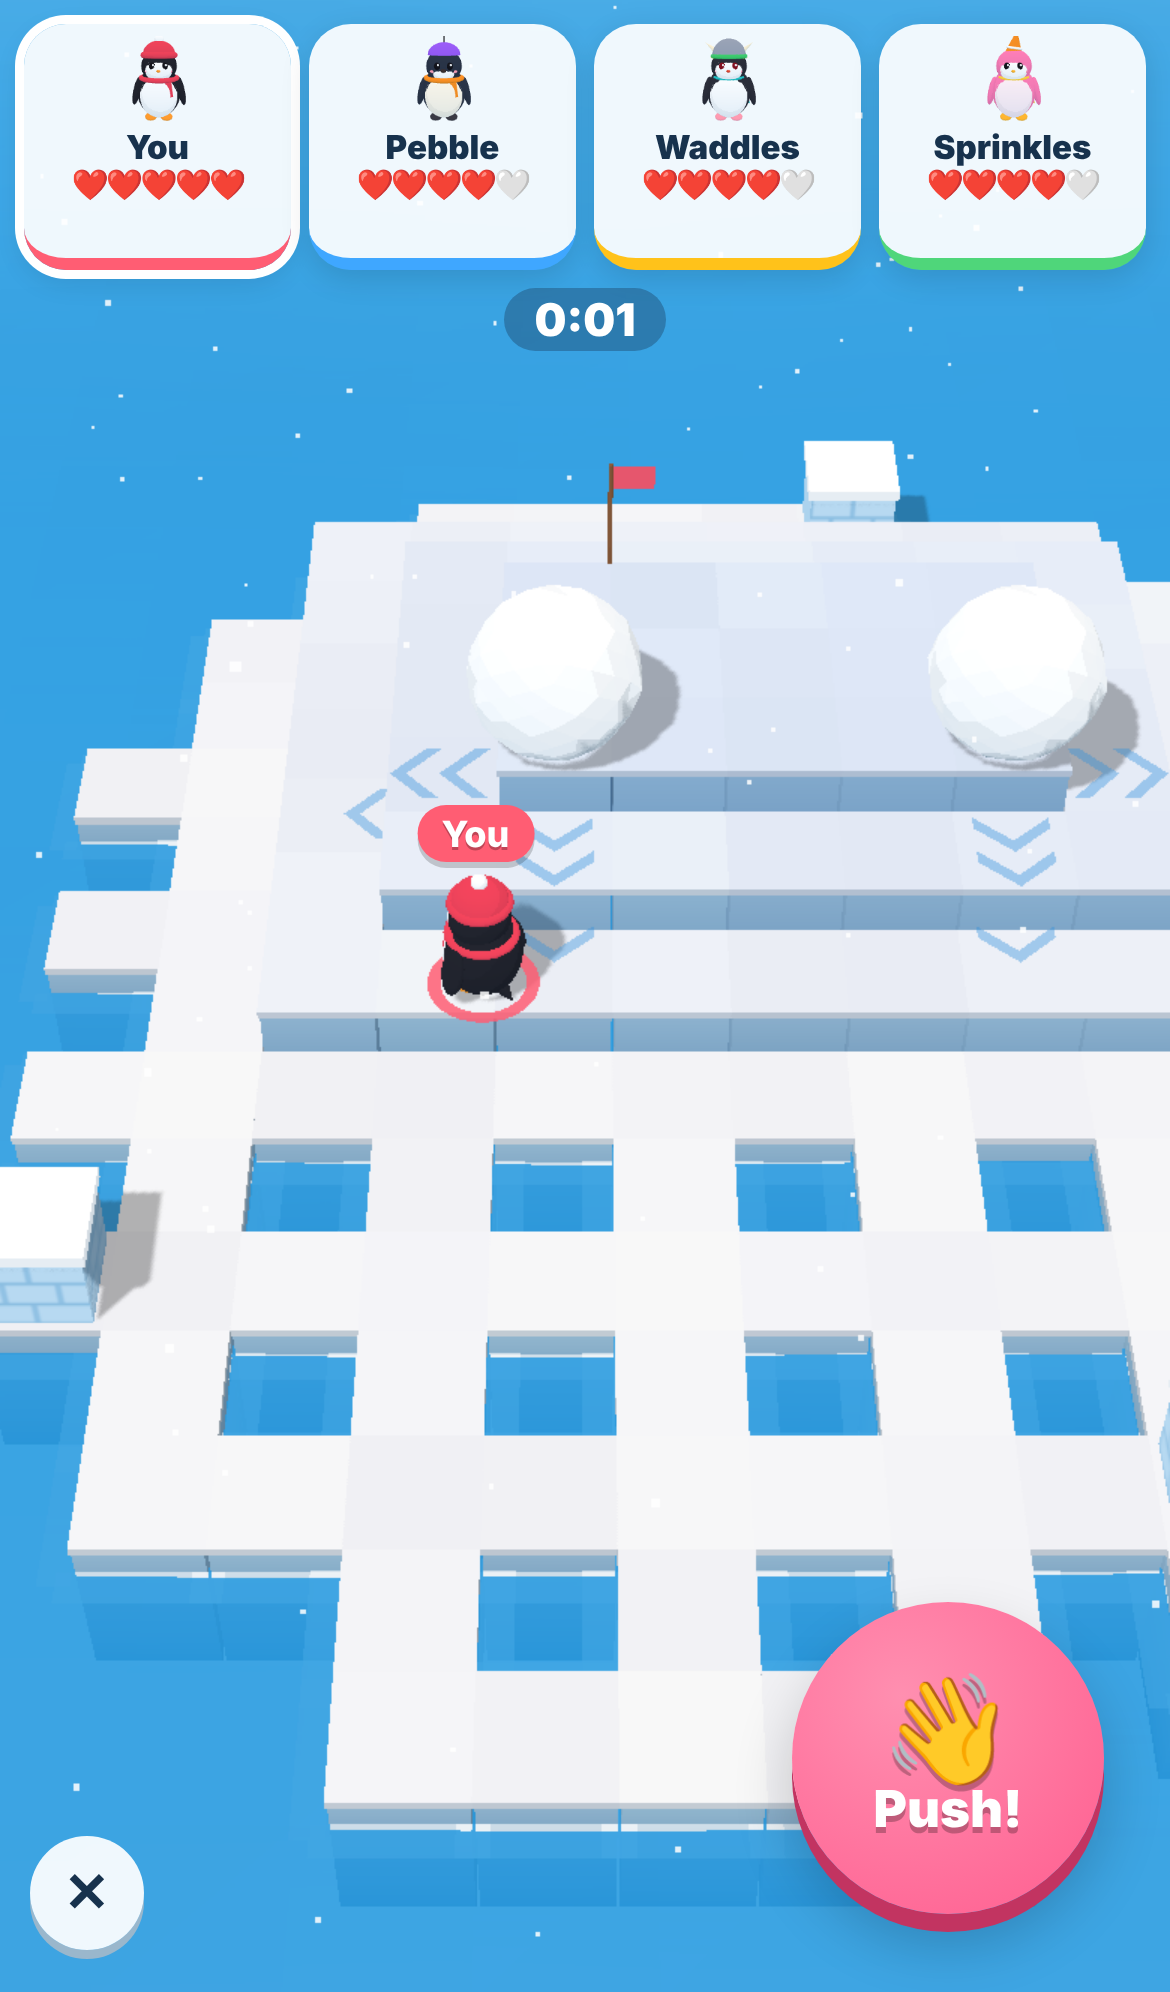
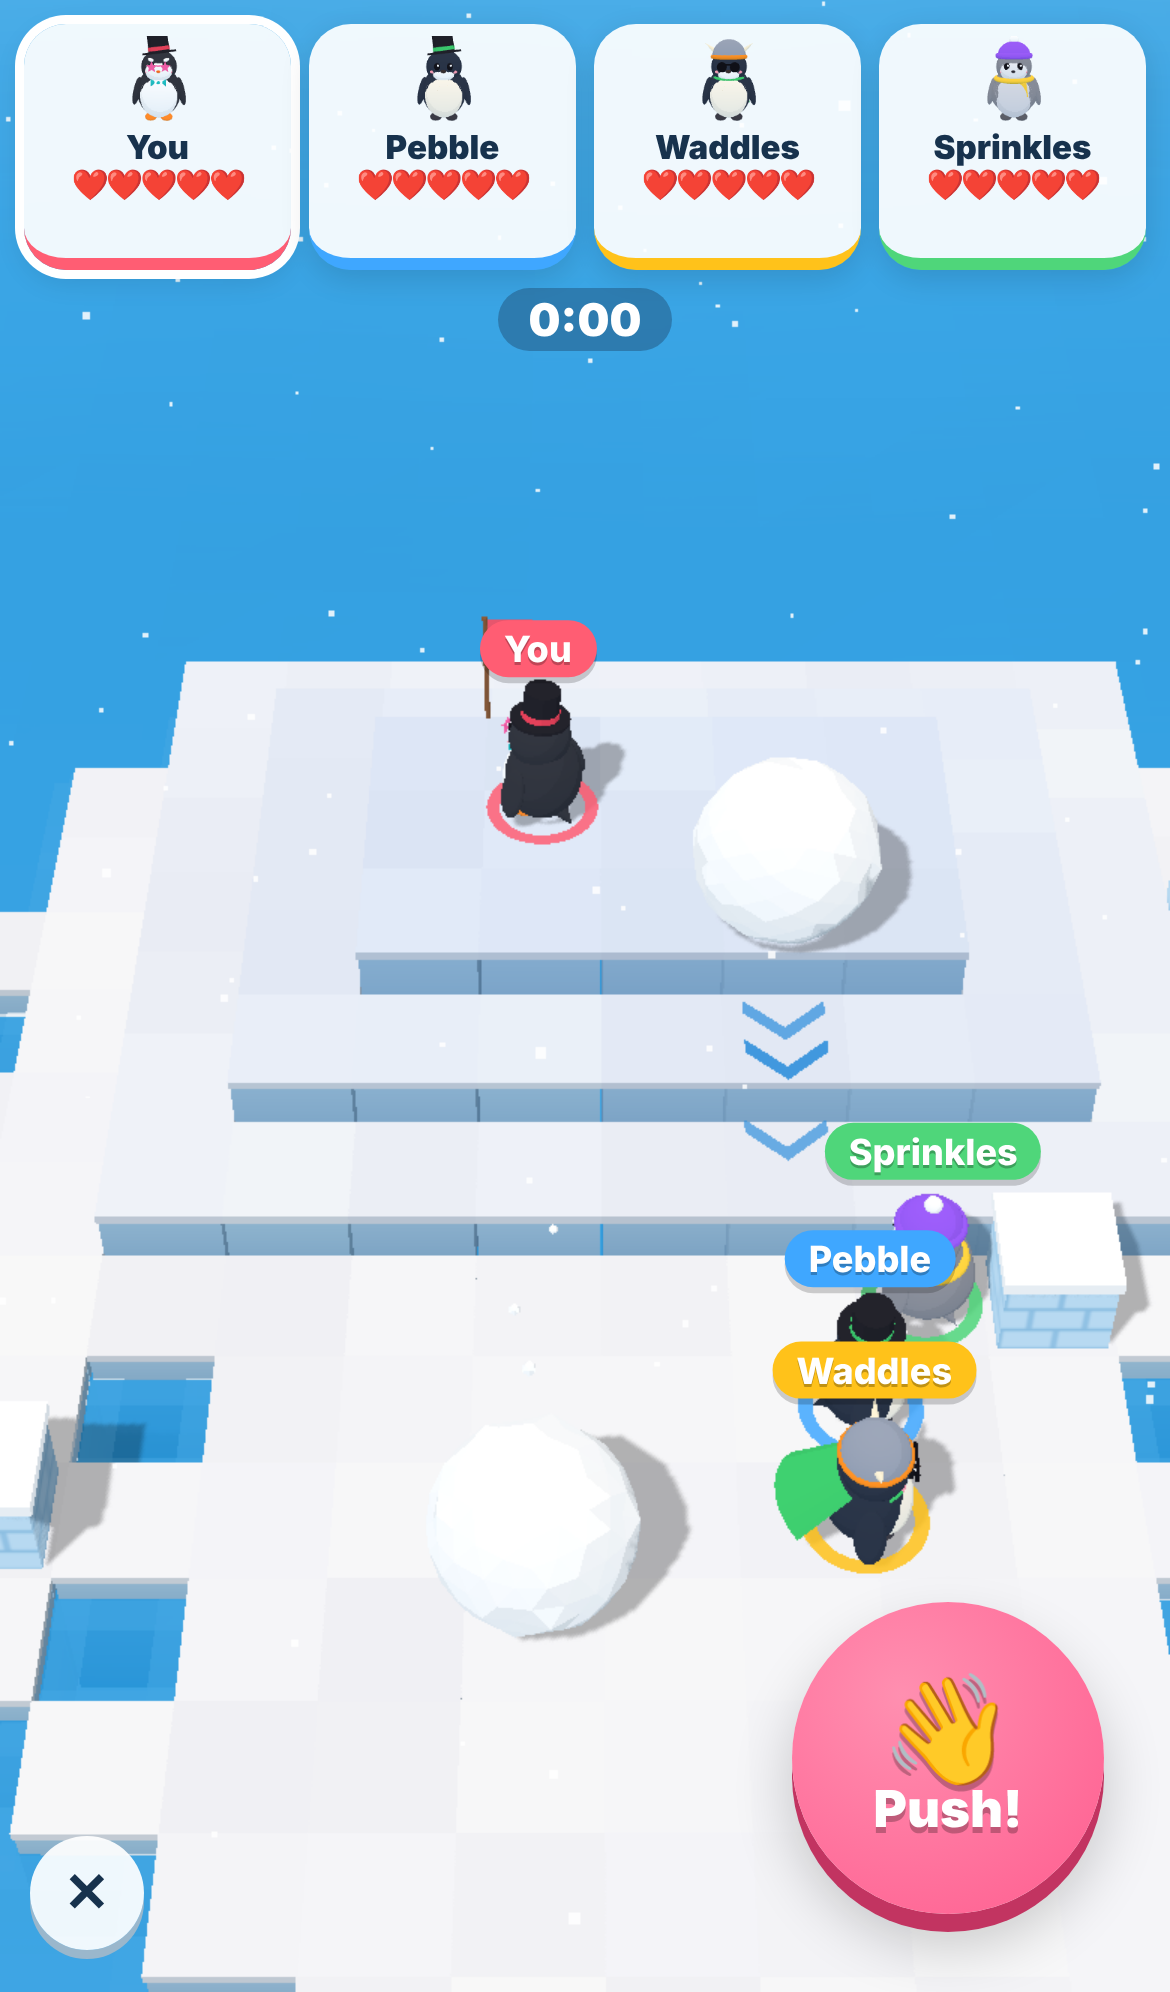
Random first-visit name and outfit; Snowball Hill gets a wide lane
- A brand-new player gets a random penguin name (none clash with the
  computer penguins) and a random outfit. Both are saved to local
  storage straight away and kept from then on.
- Snowball Hill: the snowballs move to the middle of the pyramid's front
  edge, where the only downhill direction is south. Below them a wide
  lane (the pyramid's width) runs to the shore with no water squares or
  ice blocks. A snowball now rolls the length of the island (about 10.7
  units, 1.3 s) into the sea instead of dropping into the first hole.

Tests: first-visit outfit is saved and reused; starter names avoid bot
names; every hill snowball rolls south down the lane and splashes in
the sea. The e2e no longer assumes a fixed starting outfit.

Claude-Session: https://claude.ai/code/session_011gFVsdiQUrJZG5iVJj6BbJ

diff --git a/public/src/arena.js b/public/src/arena.js
@@ -207,34 +207,33 @@ export function makeArena(id, seed) {
 	};
 
 	if (id === 'hill') {
-		// A stepped ice pyramid to the north. Two snowballs sit on its front
-		// corners; each can roll down the steps along its row or column.
+		// A stepped ice pyramid to the north. Two snowballs sit on the middle
+		// of its front edge, where the only way down is south — into a wide
+		// lane of clear ice that runs all the way to the shore.
 		arena.hill = true;
 		const core = { i0: 5, i1: 9, j0: 3, j1: 5 };
+		/** The snowball lane: the pyramid's width, from its foot to the sea. */
+		const inLane = (/** @type {number} */ i, /** @type {number} */ j) =>
+			i >= core.i0 && i <= core.i1 && j > core.j1;
 		for (let j = 0; j < n; j++) {
 			for (let i = 0; i < n; i++) {
 				if (!land(i, j)) continue;
 				const d = Math.max(core.i0 - i, i - core.i1, core.j0 - j, j - core.j1, 0);
 				set(i, j, Math.max(0, 3 - d));
-				// Water pillars across the lowlands.
-				if (d >= 4 && odd(i, j) && !nearStart(i, j)) set(i, j, -1);
+				// Water pillars across the lowlands, but never in the lane.
+				if (d >= 4 && odd(i, j) && !nearStart(i, j) && !inLane(i, j)) set(i, j, -1);
 			}
 		}
 		for (const [i, j] of [
-			[core.i0, core.j1],
-			[core.i1, core.j1],
+			[core.i0 + 1, core.j1],
+			[core.i1 - 1, core.j1],
 		]) {
 			const k = idx(arena, i ?? 0, j ?? 0);
 			const c = tileCenter(arena, k);
 			arena.balls.push({ k, x: c.x, y: c.y, r: BALL_R });
 		}
-		// A few ice blocks, kept out of the snowball lanes.
-		scatterBlocks(
-			arena,
-			rng,
-			0.08,
-			(i, j) => i === core.i0 || i === core.i1 || j === core.j1 || nearStart(i, j),
-		);
+		// A few ice blocks, kept out of the lane.
+		scatterBlocks(arena, rng, 0.08, (i, j) => inLane(i, j) || j === core.j1 || nearStart(i, j));
 	} else if (id === 'floes') {
 		// Four little islands split by a cross of water, joined by one-tile
 		// bridges, with rafts drifting round the outside.

diff --git a/public/src/main.js b/public/src/main.js
@@ -9,7 +9,7 @@ import { buildId, GAME_ID, serverUrl } from './config.js';
 import { BOT_NAMES, COUNTDOWN_MS, STEP } from './constants.js';
 import { celebrationOver, startMatch, tick } from './game.js';
 import { Controls } from './input.js';
-import { loadLook, randomLook, saveLook } from './looks.js';
+import { loadLook, randomLook, randomName, saveLook } from './looks.js';
 import { botLook, makeRoster, MAP_CHOICES, Session } from './multi.js';
 import { createRoom, NetClient } from './net/client.js';
 import { isValidCode, normalizeCode } from './net/codes.js';
@@ -404,7 +404,7 @@ export function start() {
 	});
 	$('name').addEventListener('input', () => {
 		const v = /** @type {HTMLInputElement} */ ($('name')).value.trim().slice(0, 12);
-		state.name = v || 'Penguin';
+		state.name = v || state.name;
 		saveName(state.name);
 	});
 	click('btn-solo-start', startSolo);
@@ -661,9 +661,14 @@ export function start() {
 /** @returns {string} */
 function loadName() {
 	try {
-		return localStorage.getItem(NAME_KEY) || 'Penguin';
+		const saved = localStorage.getItem(NAME_KEY);
+		if (saved) return saved;
+		// First visit: a random penguin name, kept from now on.
+		const name = randomName();
+		localStorage.setItem(NAME_KEY, name);
+		return name;
 	} catch {
-		return 'Penguin';
+		return randomName();
 	}
 }
 

diff --git a/tests/looks.test.js b/tests/looks.test.js
@@ -1,12 +1,15 @@
-import { describe, expect, it } from 'vitest';
+import { beforeEach, describe, expect, it } from 'vitest';
 
 import {
 	defaultLook,
+	loadLook,
 	LOOK_COUNTS,
 	lookFromBytes,
 	lookToBytes,
 	randomLook,
+	randomName,
 	sanitizeLook,
+	STARTER_NAMES,
 } from '../public/src/looks.js';
 
 describe('looks', () => {
@@ -24,5 +27,22 @@ describe('looks', () => {
 		for (const [k, n] of Object.entries(LOOK_COUNTS)) {
 			expect(l[/** @type {keyof typeof l} */ (k)]).toBeLessThan(n);
 		}
+	});
+});
+
+describe('a brand-new player', () => {
+	beforeEach(() => localStorage.clear());
+
+	it('gets a random outfit on the first visit, kept from then on', () => {
+		const first = loadLook();
+		expect(localStorage.getItem('penguin-push:look')).toBe(JSON.stringify(first));
+		expect(loadLook()).toEqual(first);
+	});
+
+	it('gets a random name that is not a computer penguin name', () => {
+		const name = randomName();
+		expect(STARTER_NAMES).toContain(name);
+		for (const bot of ['Pebble', 'Waddles', 'Sprinkles'])
+			expect(STARTER_NAMES).not.toContain(bot);
 	});
 });

diff --git a/tests/e2e/solo.spec.js b/tests/e2e/solo.spec.js
@@ -10,12 +10,21 @@ test('title → changing station → solo match → leaderboard', async ({ page 
 	await page.click('#btn-play');
 	await expect(page.locator('#station')).toBeVisible();
 
+	// A brand-new player starts with a random name and outfit, already saved.
+	const start = await page.evaluate(() => ({
+		look: window.__game.state.look,
+		name: window.__game.state.name,
+		saved: localStorage.getItem('penguin-push:look'),
+	}));
+	expect(start.saved).toBe(JSON.stringify(start.look));
+	expect(start.name).not.toBe('Penguin');
+
 	// Dress up: the look is saved and shows in the match.
 	await page.click('[aria-label="Next Hat"]');
 	await page.click('[aria-label="Next Penguin"]');
 	const look = await page.evaluate(() => window.__game.state.look);
-	expect(look.hat).toBe(2);
-	expect(look.species).toBe(1);
+	expect(look.hat).toBe((start.look.hat + 1) % 9);
+	expect(look.species).toBe((start.look.species + 1) % 7);
 
 	await page.click('text=Play vs Computer');
 	await page.click('[data-map="hill"]');

diff --git a/public/src/looks.js b/public/src/looks.js
@@ -199,7 +199,39 @@ export function loadLook() {
 	} catch {
 		// private mode or bad JSON
 	}
-	return defaultLook();
+	// First visit: a surprise outfit, kept from now on.
+	const look = randomLook(Math.random);
+	saveLook(look);
+	return look;
+}
+
+/** Names for a brand-new player (all different from the computer penguins'). */
+export const STARTER_NAMES = [
+	'Pip',
+	'Mochi',
+	'Noodle',
+	'Peanut',
+	'Pickle',
+	'Dumpling',
+	'Frosty',
+	'Popsicle',
+	'Biscuit',
+	'Waffles',
+	'Bubbles',
+	'Nugget',
+	'Sprout',
+	'Jellybean',
+	'Cocoa',
+	'Maple',
+	'Blizzard',
+	'Snowdrop',
+	'Tofu',
+	'Marshmallow',
+];
+
+/** @returns {string} */
+export function randomName() {
+	return STARTER_NAMES[Math.floor(Math.random() * STARTER_NAMES.length)] ?? 'Pip';
 }
 
 /** @param {Look} look */

diff --git a/tests/arena.test.js b/tests/arena.test.js
@@ -149,7 +149,10 @@ describe('giant snowballs on the stepped hill', () => {
 						(roll.pts[n - 2] ?? 0) - home.x,
 						(roll.pts[n - 1] ?? 0) - home.y,
 					);
-					expect(dist).toBeGreaterThan(CELL * 2.5);
+					// Down the wide, clear lane all the way to the sea.
+					expect(d.y).toBe(1);
+					expect(roll.end).toBe('splash');
+					expect(dist).toBeGreaterThan(CELL * 6);
 					expect(rollPath(a, i, angle + 0.2, 1000)).toBe(roll);
 				}
 			});

diff --git a/README.md b/README.md
@@ -31,7 +31,7 @@ online or against computer penguins, and the wins add up across a session.
 
 Every map is a **grid of ice blocks** stuck together, like a Bomberman board turned inside out: the board is ice and the "pillars" are **water squares** you can be shoved into. **Ice blocks** sit on some tiles. You can't walk through them, they stop low snowballs (a long throw arcs over), they block waves, and they stop giant snowballs.
 
-- ⛄ **Snowball Hill**: a stepped pyramid of stacked ice. A giant snowball sits on each front corner of the top, above a checkerboard of water squares. Snowballs **only roll downhill**: you have to push from the uphill side, and arrows on the steps show the ways each one can go. A snowball rolls straight along its row or column, speeds up at every step down, bowls over anyone in the way, and drops into the first water it meets. Then a new one appears at the top.
+- ⛄ **Snowball Hill**: a stepped pyramid of stacked ice. Two giant snowballs sit on the middle of its front edge, where the only way down is south: a wide lane of clear ice (no water squares, no blocks) running from the pyramid's foot to the shore. Snowballs **only roll downhill**, so get behind one and push. Arrows on the steps show the way. A snowball speeds up at every step, bowls over anyone in the lane, and rolls the whole length of the island into the sea. Then a new one appears at the top. Water squares dot the rest of the lowlands.
 - 🧊 **Floe Frenzy**: four little islands split by a cross of water, joined by one-tile bridges, with 2×2 rafts drifting around the outside. The rafts crack and sink now and then.
 - 🌊 **Igloo Cove**: red arrows warn of a big wave. It shoves everyone across the ice unless you hide behind the igloo or an ice block. There are holes, and slippery polished tiles.
 - 🔲 **Ice Grid**: the full inside-out Bomberman board, with water at every other tile and ice blocks scattered on the rest. It's different every match.
@@ -40,6 +40,8 @@ Every map is a **grid of ice blocks** stuck together, like a Bomberman board tur
 **Sudden death** starts after 75 seconds. Tiles shake, then sink one by one from the outside in, until only a small connected patch in the middle is left. The ice blocks crumble too, and heart jars stop appearing.
 
 ### Changing station
+
+A brand-new player gets a random penguin name and a surprise outfit, saved straight away; change either whenever you like.
 
 Pick a penguin type (Classic, Emperor, Rockhopper, Gentoo, Little Blue, Fluffy Chick, Bubblegum), a hat (beanie, top hat, party hat, crown, bow, viking, propeller, flower), a scarf, stripy scarf, bow tie or cape, colours, and glasses. Your look is saved, and friends see it online.
 
